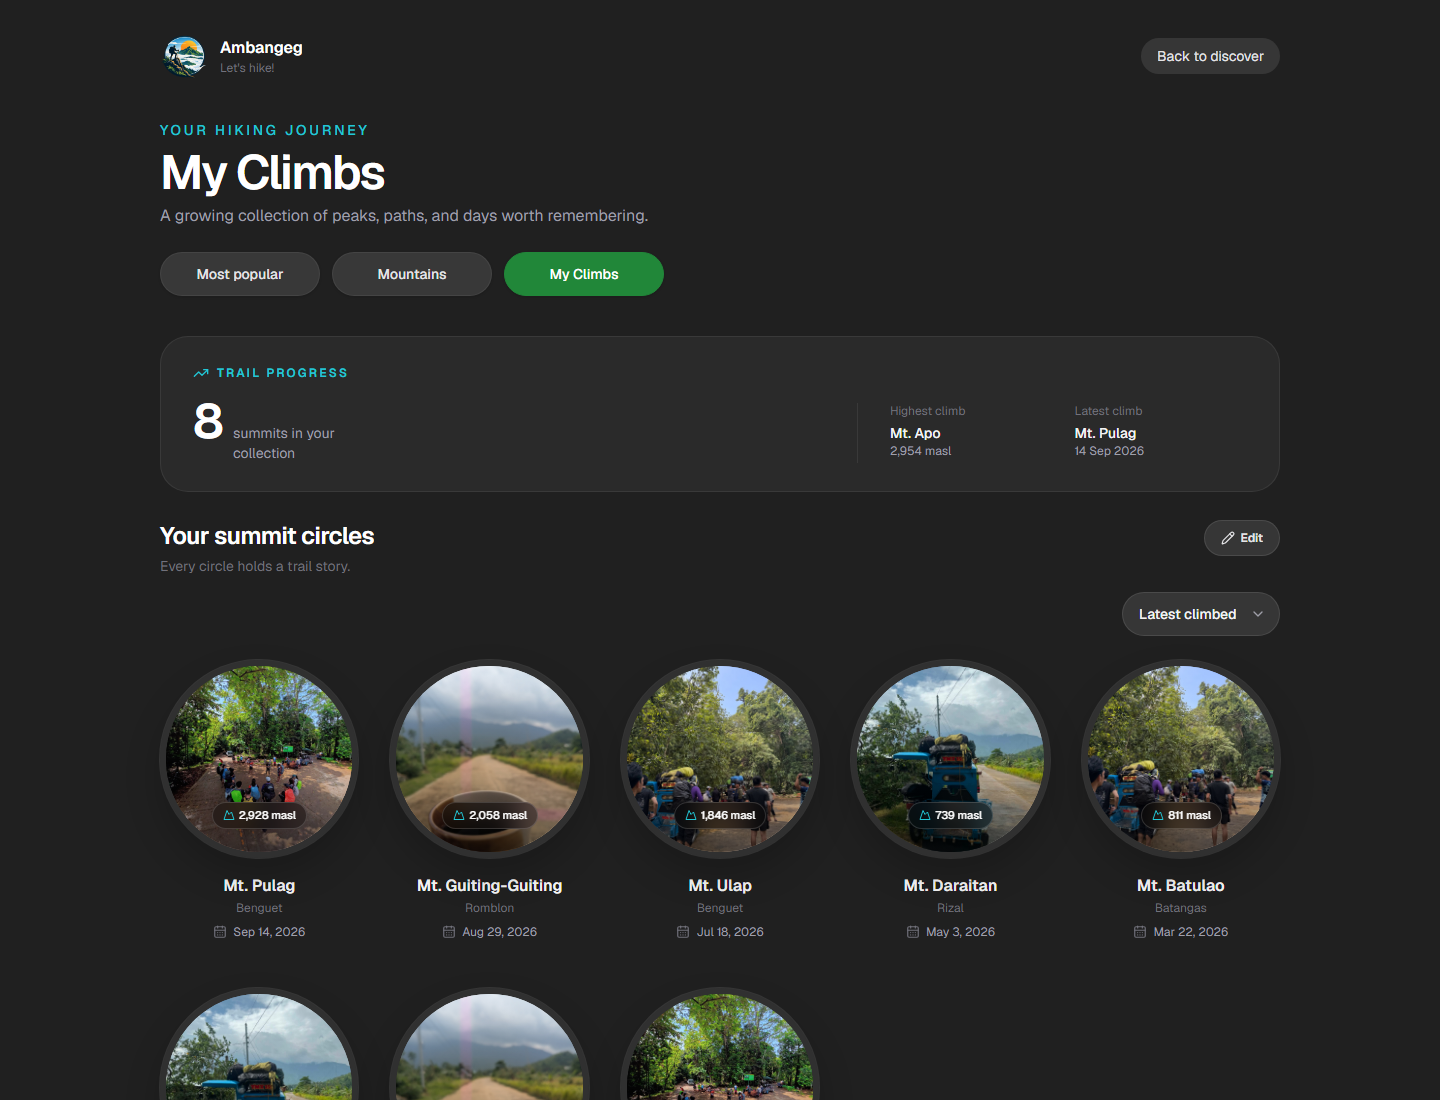
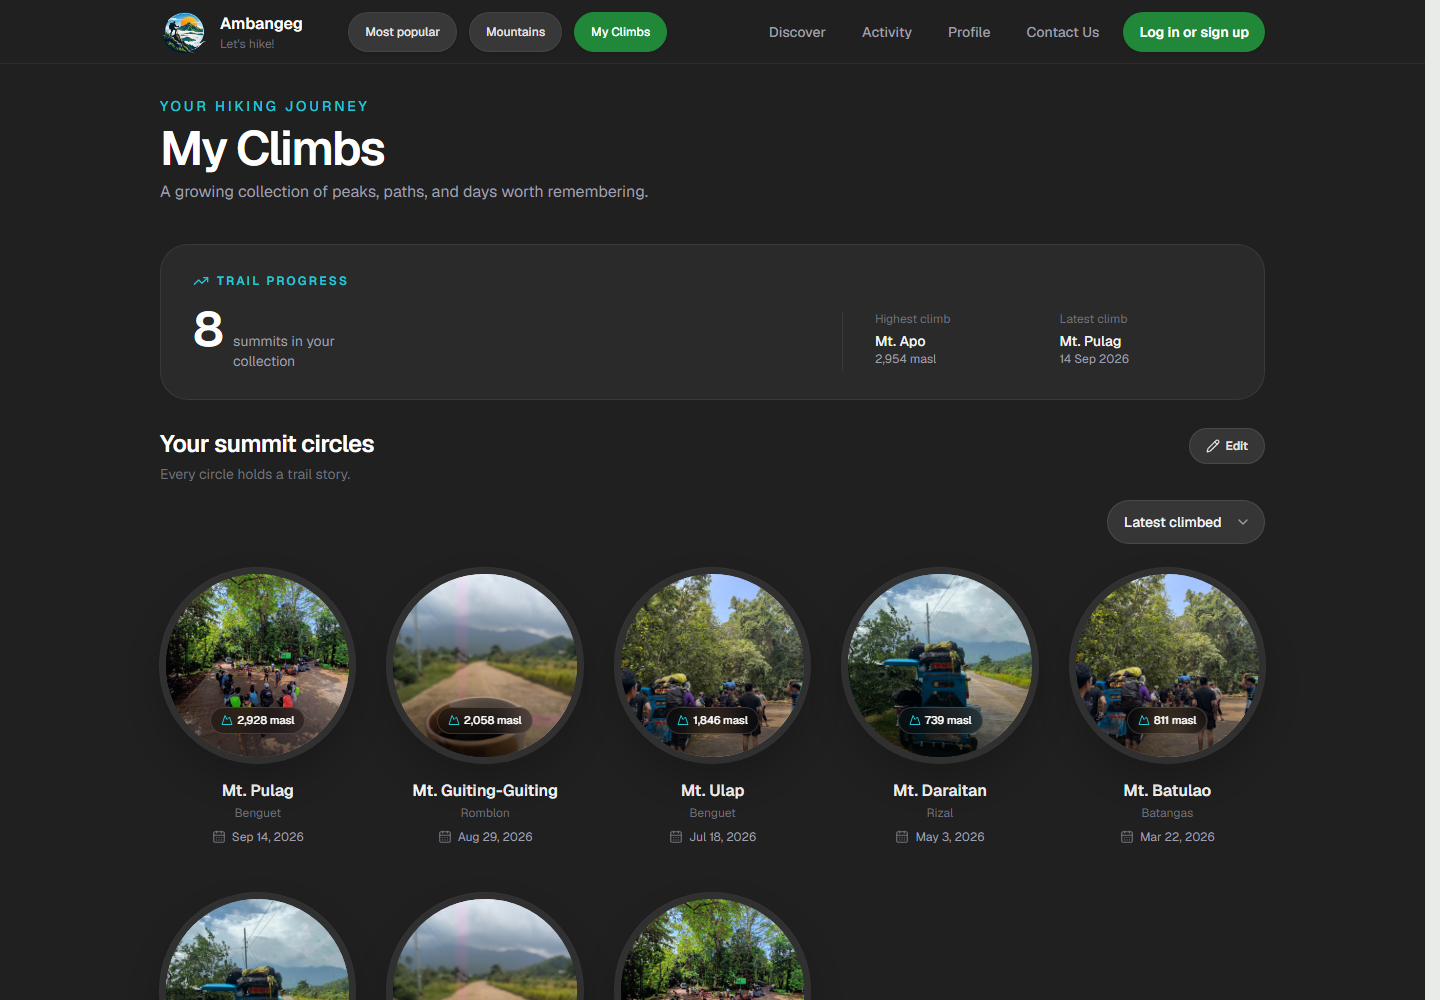
feat(home): add shareable meme carousel
Add a horizontally scrollable trail and meme card row with native and Facebook sharing controls. Refresh the desktop and mobile README screenshots to reflect the current interface.

diff --git a/frontend/components/hiking-app.tsx b/frontend/components/hiking-app.tsx
@@ -7,14 +7,16 @@ import {
   ArrowLeft,
   ArrowRight,
   Binoculars,
+  Check,
   Clock3,
   Download,
   MapPin,
   MoreVertical,
+  Share2,
   Sparkles,
   Star,
 } from "lucide-react";
-import { Fragment, useState, useSyncExternalStore } from "react";
+import { Fragment, useRef, useState, useSyncExternalStore } from "react";
 
 import { useAuth } from "@/components/auth-provider";
 import { DesktopNavigation } from "@/components/desktop-navigation";
@@ -139,16 +141,16 @@ function TripCard({
     <button
       type="button"
       onClick={onOpen}
-      className="group w-[78%] max-w-[78%] basis-[78%] shrink-0 snap-center text-left md:w-[82%] md:max-w-[82%] md:basis-[82%] lg:w-full lg:max-w-none lg:basis-auto"
+      className="group h-full w-[78%] max-w-[78%] basis-[78%] shrink-0 snap-center text-left md:w-[82%] md:max-w-[82%] md:basis-[82%] lg:w-[calc((100%_-_2.5rem)/3)] lg:max-w-[calc((100%_-_2.5rem)/3)] lg:basis-[calc((100%_-_2.5rem)/3)]"
       aria-label={`Open ${title}`}
     >
-      <Card className="gap-0 overflow-hidden border-0 bg-[#3c3c3c] py-0 shadow-none transition-transform duration-300 group-hover:-translate-y-1">
+      <Card className="h-full gap-0 overflow-hidden border-0 bg-[#3c3c3c] py-0 shadow-none transition-transform duration-300 group-hover:-translate-y-1">
         <ShowcasePhoto
           src={photo}
           alt={`${title} in ${location}`}
           className="aspect-[1.4/1] w-full rounded-t-[20px]"
         />
-        <CardContent className="space-y-1 px-4 py-3">
+        <CardContent className="min-h-24 space-y-1 px-4 py-3">
           <p className="text-[15px] font-medium text-zinc-100">{title}</p>
           <p className="flex items-center gap-1 text-xs text-zinc-400">
             <MapPin className="size-3 fill-zinc-300 text-zinc-300" />
@@ -157,6 +159,106 @@ function TripCard({
         </CardContent>
       </Card>
     </button>
+  );
+}
+
+const sampleMemeText = "Ung bigla kang na-add sa gc kahit nagtatanong ka lang";
+
+function MemeCard() {
+  const [shared, setShared] = useState(false);
+
+  const getMemeUrl = () => new URL("/assets/meme-poker-face.png", window.location.origin).href;
+
+  const copyMemeLink = async (memeUrl: string) => {
+    try {
+      await navigator.clipboard.writeText(`${sampleMemeText}\n${memeUrl}`);
+      setShared(true);
+    } catch {
+      window.open(memeUrl, "_blank", "noopener,noreferrer");
+    }
+  };
+
+  const shareMeme = async () => {
+    const memeUrl = getMemeUrl();
+
+    try {
+      const response = await fetch(memeUrl);
+      if (!response.ok) throw new Error("Could not load the meme image.");
+
+      const memeFile = new File([await response.blob()], "ambangeg-poker-face.png", {
+        type: "image/png",
+      });
+      const canShareImage = navigator.canShare?.({ files: [memeFile] }) ?? false;
+
+      if (navigator.share && canShareImage) {
+        await navigator.share({
+          title: "Ambangeg meme",
+          text: sampleMemeText,
+          files: [memeFile],
+        });
+      } else if (navigator.share) {
+        await navigator.share({ title: "Ambangeg meme", text: sampleMemeText, url: memeUrl });
+      } else {
+        await copyMemeLink(memeUrl);
+      }
+
+      setShared(true);
+    } catch (error) {
+      if (error instanceof DOMException && error.name === "AbortError") return;
+
+      await copyMemeLink(memeUrl);
+    }
+  };
+
+  const shareOnFacebook = () => {
+    const shareUrl = new URL("https://www.facebook.com/sharer/sharer.php");
+    shareUrl.searchParams.set("u", getMemeUrl());
+    shareUrl.searchParams.set("quote", sampleMemeText);
+    window.open(shareUrl.href, "facebook-share", "popup,width=680,height=560,noopener,noreferrer");
+  };
+
+  return (
+    <article className="h-full w-[78%] max-w-[78%] basis-[78%] shrink-0 snap-center md:w-[82%] md:max-w-[82%] md:basis-[82%] lg:w-[calc((100%_-_2.5rem)/3)] lg:max-w-[calc((100%_-_2.5rem)/3)] lg:basis-[calc((100%_-_2.5rem)/3)]">
+      <Card className="h-full gap-0 overflow-hidden border-0 bg-[#eee8dc] py-0 text-zinc-950 shadow-none transition-transform duration-300 hover:-translate-y-1">
+        <div className="relative aspect-[1.4/1] w-full overflow-hidden">
+          <Image
+            src="/assets/meme-poker-face.png"
+            alt="Doodled poker face surrounded by group-chat and hiking symbols"
+            fill
+            sizes="(min-width: 1024px) 24vw, 78vw"
+            className="object-cover"
+            priority
+          />
+        </div>
+        <CardContent className="flex min-h-24 items-start justify-between gap-3 px-4 py-3">
+          <p className="text-sm font-semibold leading-5 text-zinc-900">{sampleMemeText}</p>
+          <div className="flex shrink-0 gap-2">
+            <Button
+              type="button"
+              size="icon"
+              variant="ghost"
+              onClick={shareOnFacebook}
+              aria-label="Share meme on Facebook"
+              title="Share on Facebook"
+              className="size-9 rounded-full bg-[#1877f2] text-lg font-bold text-white hover:bg-[#0f69db] hover:text-white"
+            >
+              f
+            </Button>
+            <Button
+              type="button"
+              size="icon"
+              variant="ghost"
+              onClick={() => void shareMeme()}
+              aria-label={shared ? "Meme shared or copied" : "Share meme image"}
+              title={shared ? "Shared or copied" : "Share image"}
+              className="size-9 rounded-full bg-zinc-900 text-white hover:bg-grass hover:text-white"
+            >
+              {shared ? <Check className="size-4" /> : <Share2 className="size-4" />}
+            </Button>
+          </div>
+        </CardContent>
+      </Card>
+    </article>
   );
 }
 
@@ -373,6 +475,14 @@ function HomeScreen({
   onOpenTrip: (trip: (typeof trips)[number]) => void;
 }) {
   const { authError, loading, user, signOutUser } = useAuth();
+  const carouselRef = useRef<HTMLDivElement>(null);
+
+  const scrollCarousel = (direction: -1 | 1) => {
+    carouselRef.current?.scrollBy({
+      left: direction * carouselRef.current.clientWidth * 0.72,
+      behavior: "smooth",
+    });
+  };
 
   return (
     <div className="flex min-h-full min-w-0 flex-col bg-[#202020] text-white lg:h-full">
@@ -460,7 +570,22 @@ function HomeScreen({
           <div className="mt-6 lg:mt-8">
             <HikerDetailsCard />
           </div>
-          <div className="no-scrollbar -mx-5 mt-3 flex snap-x snap-mandatory gap-3 overflow-x-auto px-5 pb-1 lg:mx-0 lg:mt-5 lg:grid lg:grid-cols-3 lg:gap-5 lg:overflow-visible lg:px-0">
+          <div className="mt-3 hidden items-center justify-between lg:mt-5 lg:flex">
+            <p className="text-sm font-medium text-zinc-400">Trail picks &amp; memes</p>
+            <div className="flex gap-2">
+              <IconButton label="Previous card" onClick={() => scrollCarousel(-1)}>
+                <ArrowLeft className="size-4" />
+              </IconButton>
+              <IconButton label="Next card" onClick={() => scrollCarousel(1)}>
+                <ArrowRight className="size-4" />
+              </IconButton>
+            </div>
+          </div>
+          <div
+            ref={carouselRef}
+            className="no-scrollbar -mx-5 mt-3 flex snap-x snap-mandatory items-stretch gap-3 overflow-x-auto px-5 pb-1 lg:mx-0 lg:gap-5 lg:px-0"
+          >
+            <MemeCard />
             {trips.map((trip) => (
               <Fragment key={trip.title}>
                 <TripCard {...trip} onOpen={() => onOpenTrip(trip)} />
